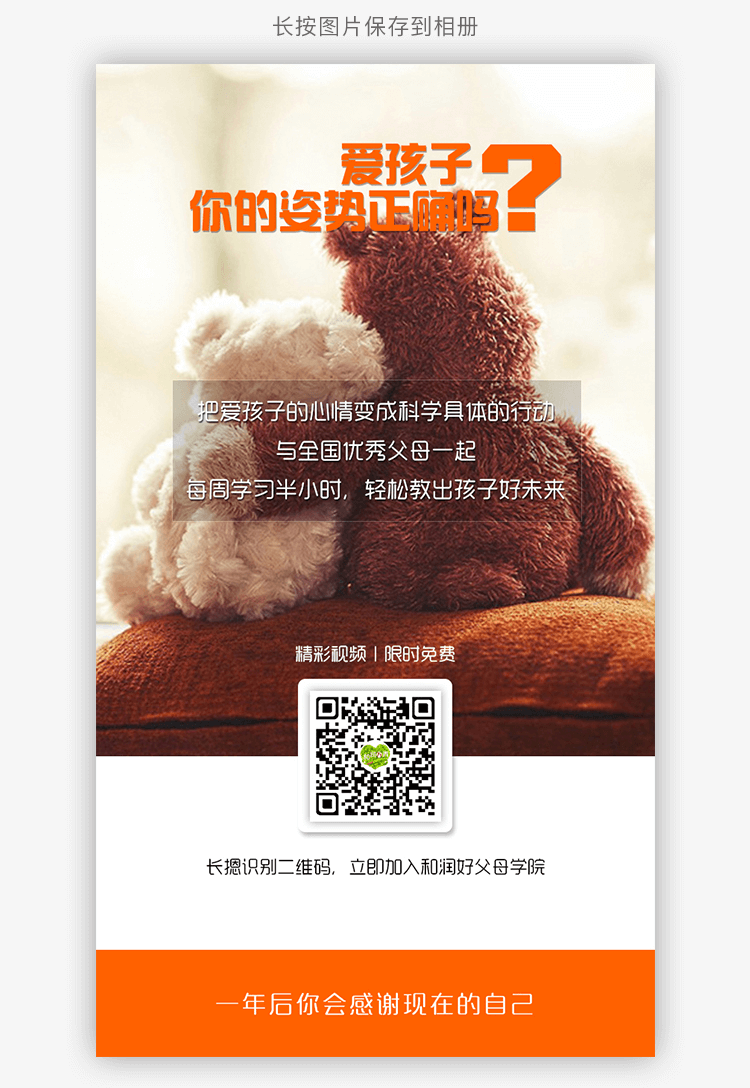
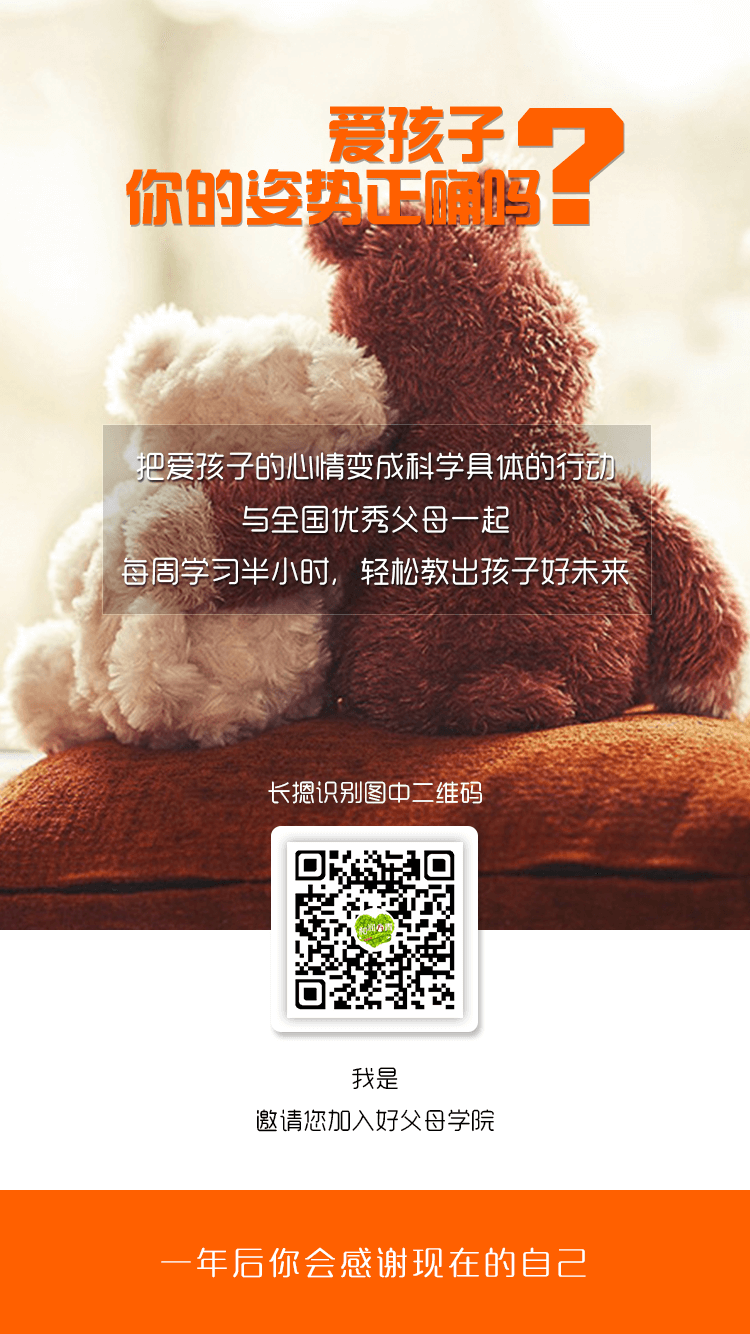
海报，播放视频判断

diff --git a/public/js/public.js b/public/js/public.js
@@ -95,3 +95,12 @@ $(document).ready(function(){//公用脚本
 		}, 600);
 	}
 });
+
+function browserOS(){
+	var u = navigator.userAgent, app = navigator.appVersion;
+	var isAndroid = u.indexOf('Android') > -1 || u.indexOf('Linux') > -1;
+	var isiOS = !!u.match(/\(i[^;]+;( U;)? CPU.+Mac OS X/); 
+	if(isAndroid) return 'android';
+	if(isiOS) return 'ios';
+	return 'pc';
+}

diff --git a/public/css/style.css b/public/css/style.css
@@ -1110,7 +1110,7 @@ transform: rotate(-45deg);
 .share-love{
     width: 100%;
 }
-.share-love .banner{}
+.share-love .banner{margin-bottom: 2.2rem}
 .share-love .banner img{width:100%}
 .share-love .footer{
     background-color: #FFFFFF;

diff --git a/resources/views/share/love_angle.blade.php b/resources/views/share/love_angle.blade.php
@@ -43,8 +43,8 @@
 	$(document).ready(function(){
 		var qrcode = new QRCode(document.getElementById("qrcode"), {
 			text: "{{ route('share.hot',['id'=> $data['id'] ] ) }}",
-			width : 100,
-			height : 100
+			width : 155,
+			height : 155
 		});
 
 		(function(){
@@ -52,10 +52,9 @@
 			var ctx = canvas.getContext("2d");
 			ctx.strokeStyle = "#ed6d11";
 			ctx.stroke();
-			ctx.font="15px";
-			ctx.textAlign = 'center';
-			ctx.strokeText("我是 {{$data['nickname']}}", 100, 13);
-
+			ctx.font="18px";
+			ctx.textAlign = '';
+			ctx.strokeText("{{$data['nickname']}}", 0, 13);
 			$("#vasimg").attr('src', canvas.toDataURL("image/png")); 
 		})();
 
@@ -64,7 +63,7 @@
 			var ctx = c.getContext('2d');
 			
 			c.width = 750;
-			c.height = 1088;
+			c.height = 1344;
 			ctx.rect(0,0,c.width,c.height);
 			ctx.fillStyle='#fff';//画布填充颜色
 			ctx.fill();
@@ -74,10 +73,10 @@
 			ctx.drawImage(img,0,0,c.width,c.height);
 			var img2 = new Image();
 			img2.src = $("#qrcode img").eq(0).attr('src');
-			ctx.drawImage(img2,315,695,120,120);
+			ctx.drawImage(img2,295,860,155,155);
 			var img3 = new Image();
 			img3.src = $("#vasimg").attr('src');
-			ctx.drawImage(img3,270,885,200,23);
+			ctx.drawImage(img3,400,1069,400,30);
 
 			var finalSrc = c.toDataURL("image/jpeg");
 			$("#banner").attr('src', finalSrc) ;

diff --git a/resources/views/vcourse/detail.blade.php b/resources/views/vcourse/detail.blade.php
@@ -299,12 +299,17 @@ $(document).ready(function(){
         "preload": "none",
         "poster": poster
     }, function() {
-        this.src({
-            type: vType(),
-            src: vLink
-        });
-        var player = this;
-        player.play();
+		document.addEventListener("WeixinJSBridgeReady", function () { 
+			var player = videojs('video-embed');
+			player.src({
+	            type: vType(),
+	            src: vLink
+	        });
+			if(browserOS() == 'ios' || browserOS() == 'pc'){
+				player.play();
+			}
+		}, true); 
+		
     }).on("play", videoPlay).on("pause", videoPause).on("ended", videoEnd);
 
     $('.lcd_banner_div').click(function(event) {
